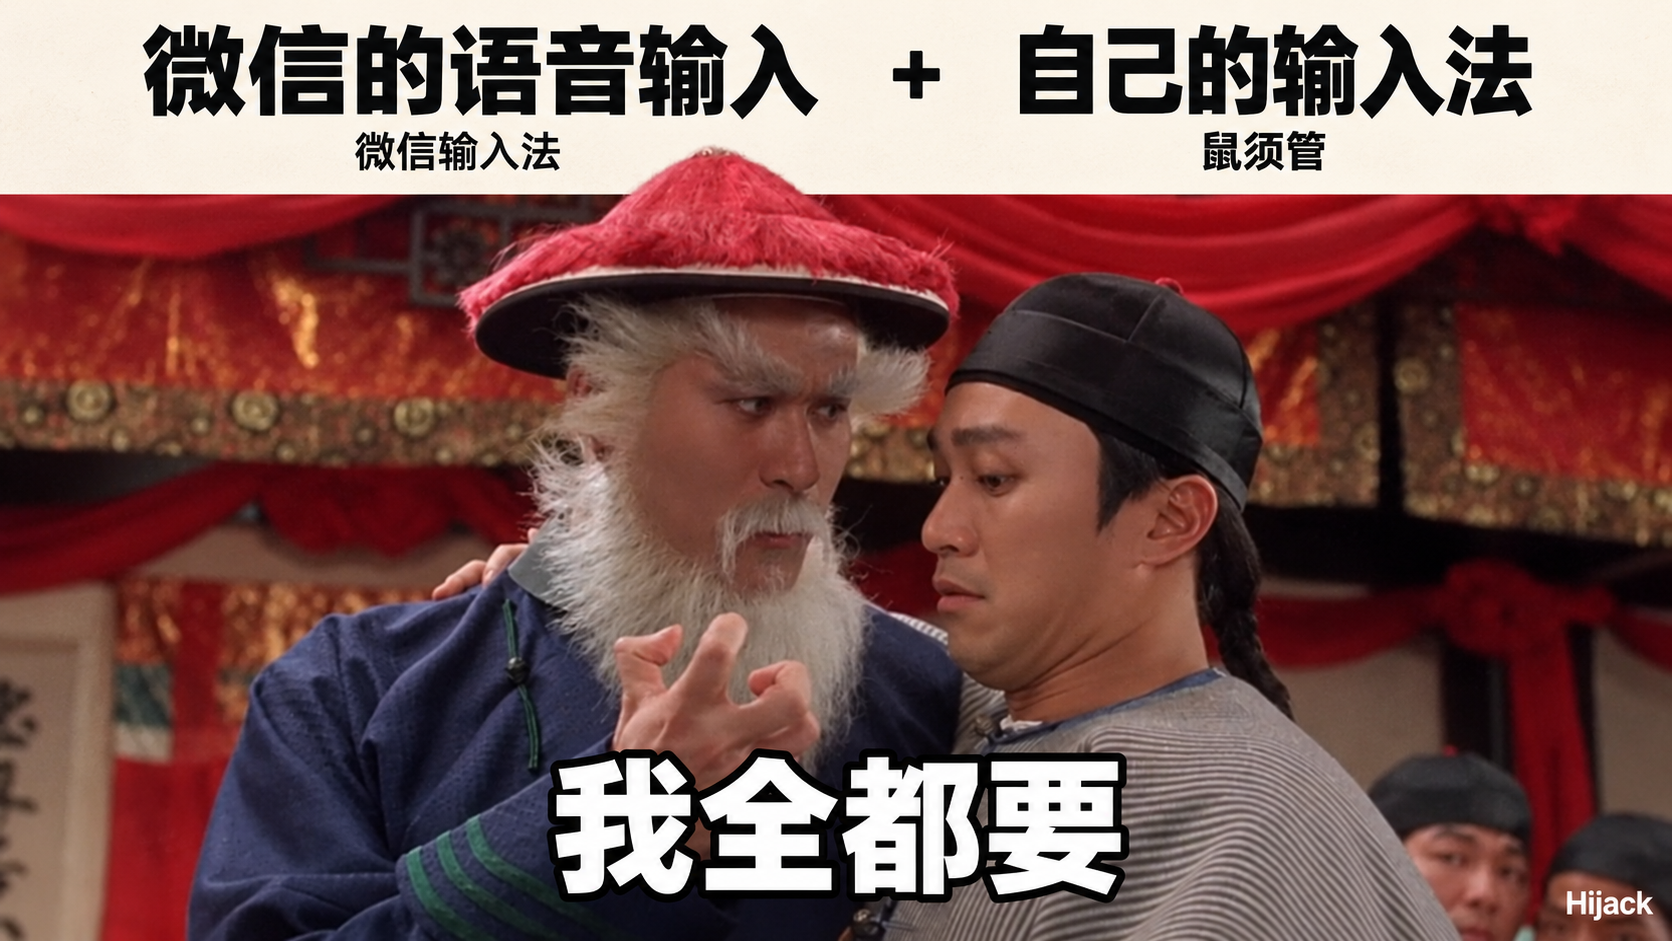
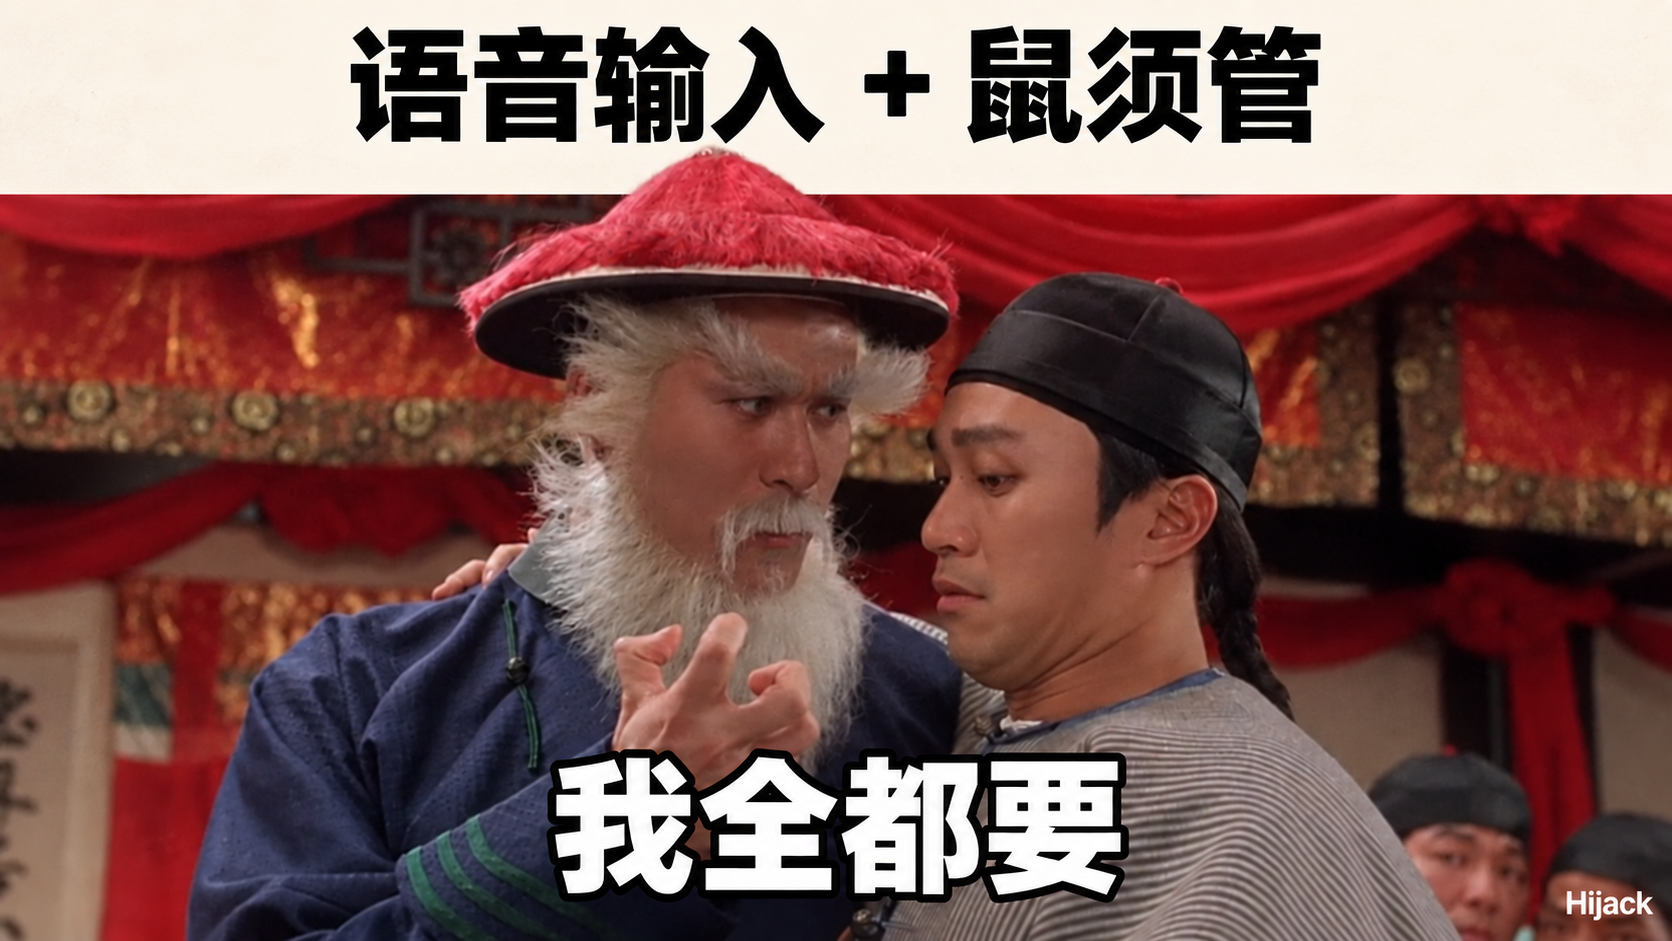
Simplify meme headline to voice input plus Squirrel

Changed region(s): [[0.0622, 0.0308, 0.933, 0.1849]]

diff --git a/site/precise-zh.html b/site/precise-zh.html
@@ -30,7 +30,7 @@
       <div class="demo" aria-label="输入法切换演示">
         <div class="demo-heading"><span>输入法切换</span><span>演示</span></div>
         <div class="app-window has-cover" data-stage="0" data-view="cover">
-          <div class="demo-cover"><img src="assets/hijack-want-it-all.png" width="1672" height="941" alt="微信的语音输入，加上自己的输入法：我全都要。"></div>
+          <div class="demo-cover"><img src="assets/hijack-want-it-all.png" width="1672" height="941" alt="语音输入 + 鼠须管：我全都要。"></div>
           <div class="window-bar"><span class="dots" aria-hidden="true"><i></i><i></i><i></i></span><span class="window-name">编辑器</span><span class="source-label">当前输入法 <strong id="current-source">鼠须管</strong></span></div>
           <div class="editor">
             <p class="document-label">会议笔记</p>
